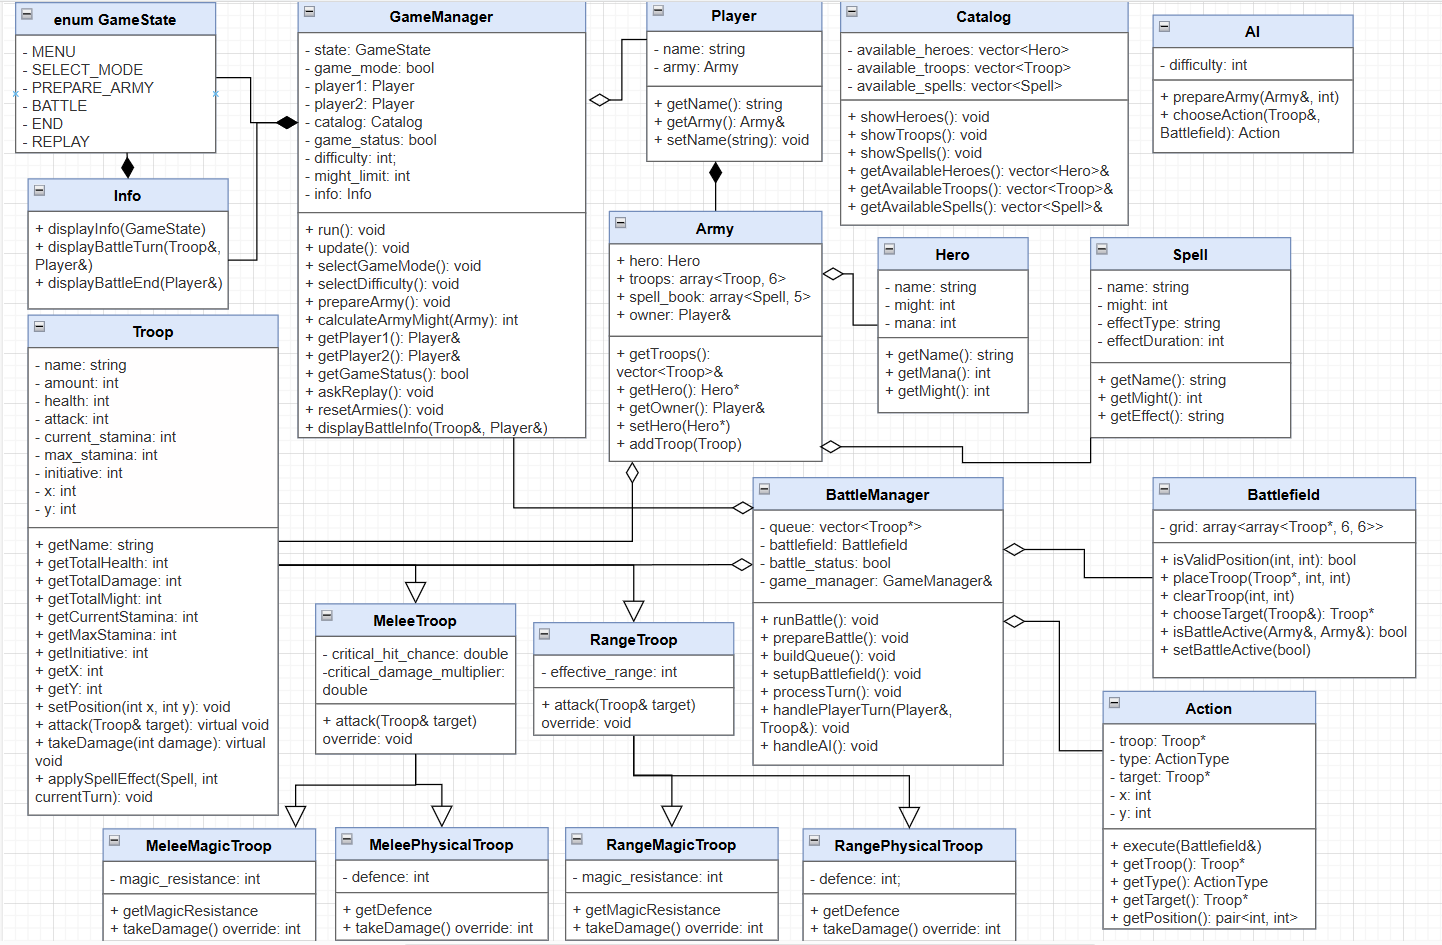
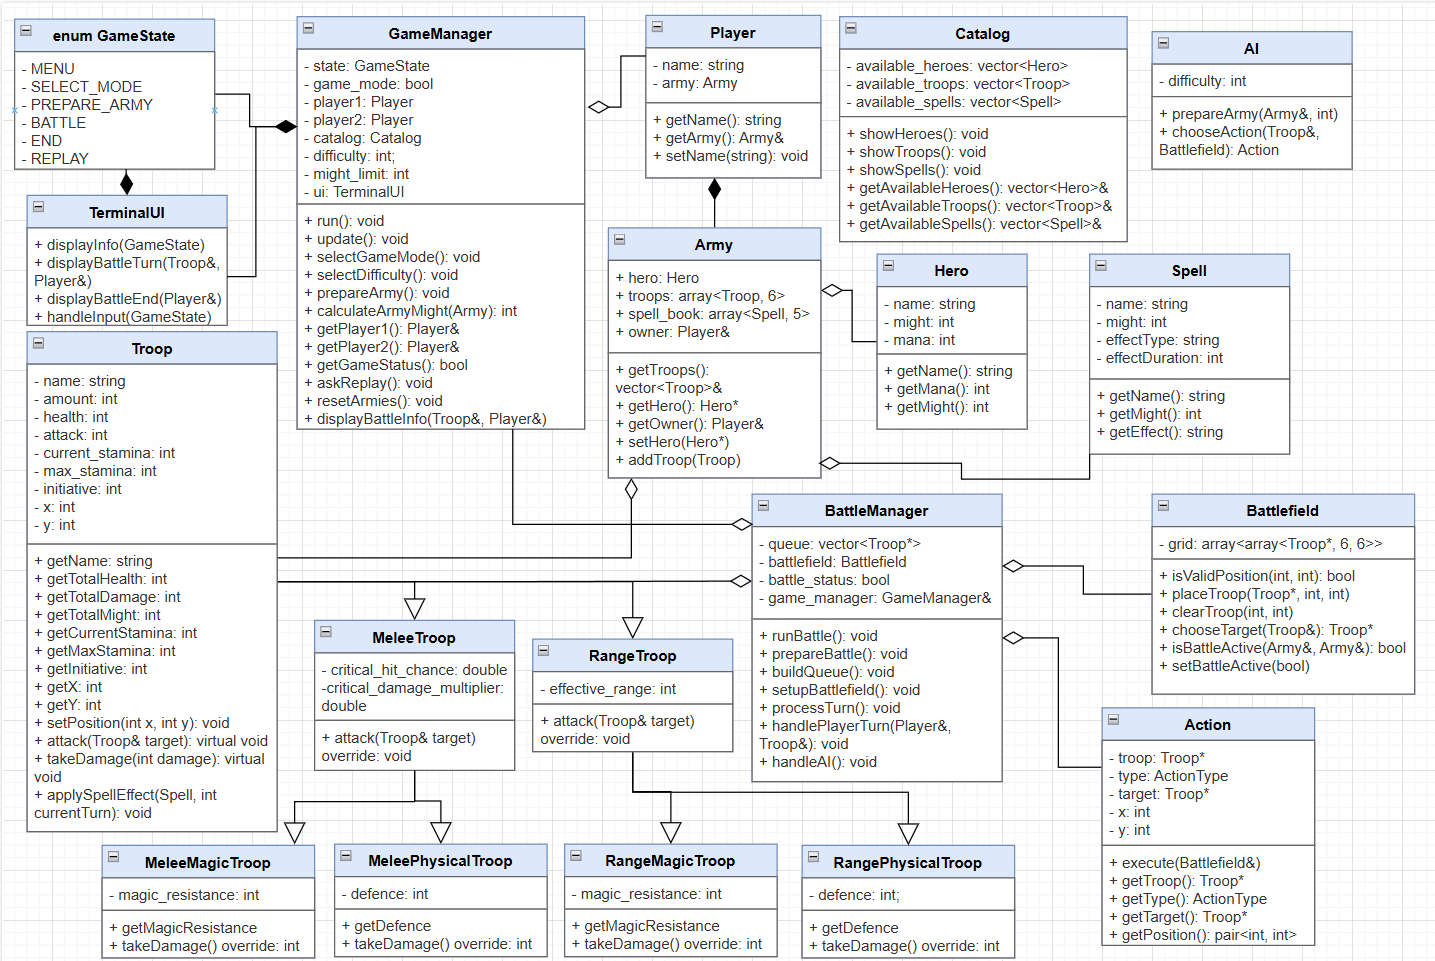
Updated structure

Changed region(s): [[0.0, 0.0, 1.0, 1.0]]

diff --git a/docs/Test plan.md b/docs/Test plan.md
@@ -24,5 +24,5 @@
 ### 3. Boundary and Edge Cases
 *   Test army composition with minimum (1 troop, 1 unit) and maximum (6 troops, 99 units each) might, ensuring mightLimit compliance, using unit tests for `GameManager` and `Troop`.
 *   Verify battlefield edge cases (troops at x=0, x=5, y=0, y=5) for MOVE and ATTACK actions with unit tests for `Battlefield` and `Action`.
-*   Check invalid inputs (e.g., "move 6 6", negative numbers) and ensure proper error handling with unit tests for `Info` and `BattleManager`.
+*   Check invalid inputs (e.g., "move 6 6", negative numbers) and ensure proper error handling with unit tests for `TerminalUI` and `BattleManager`.
 *   Test spell-casting (CAST) with empty spell book, invalid targets, and mana limits using unit tests for `Hero`, `Spell`, and `Action`.
